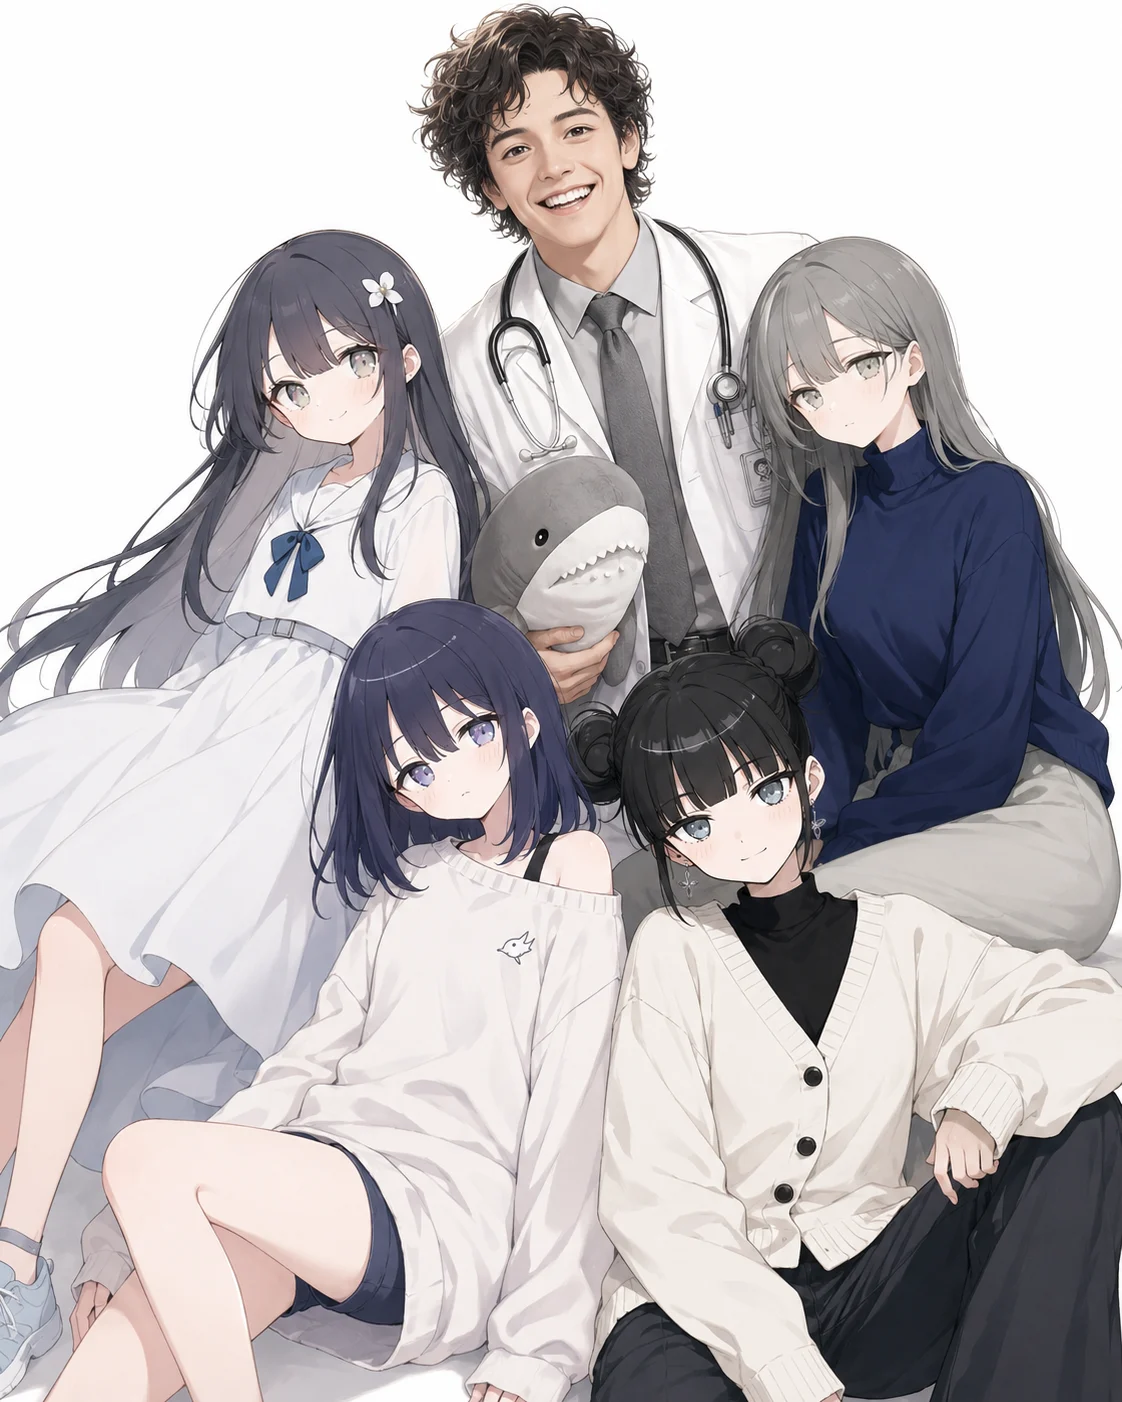
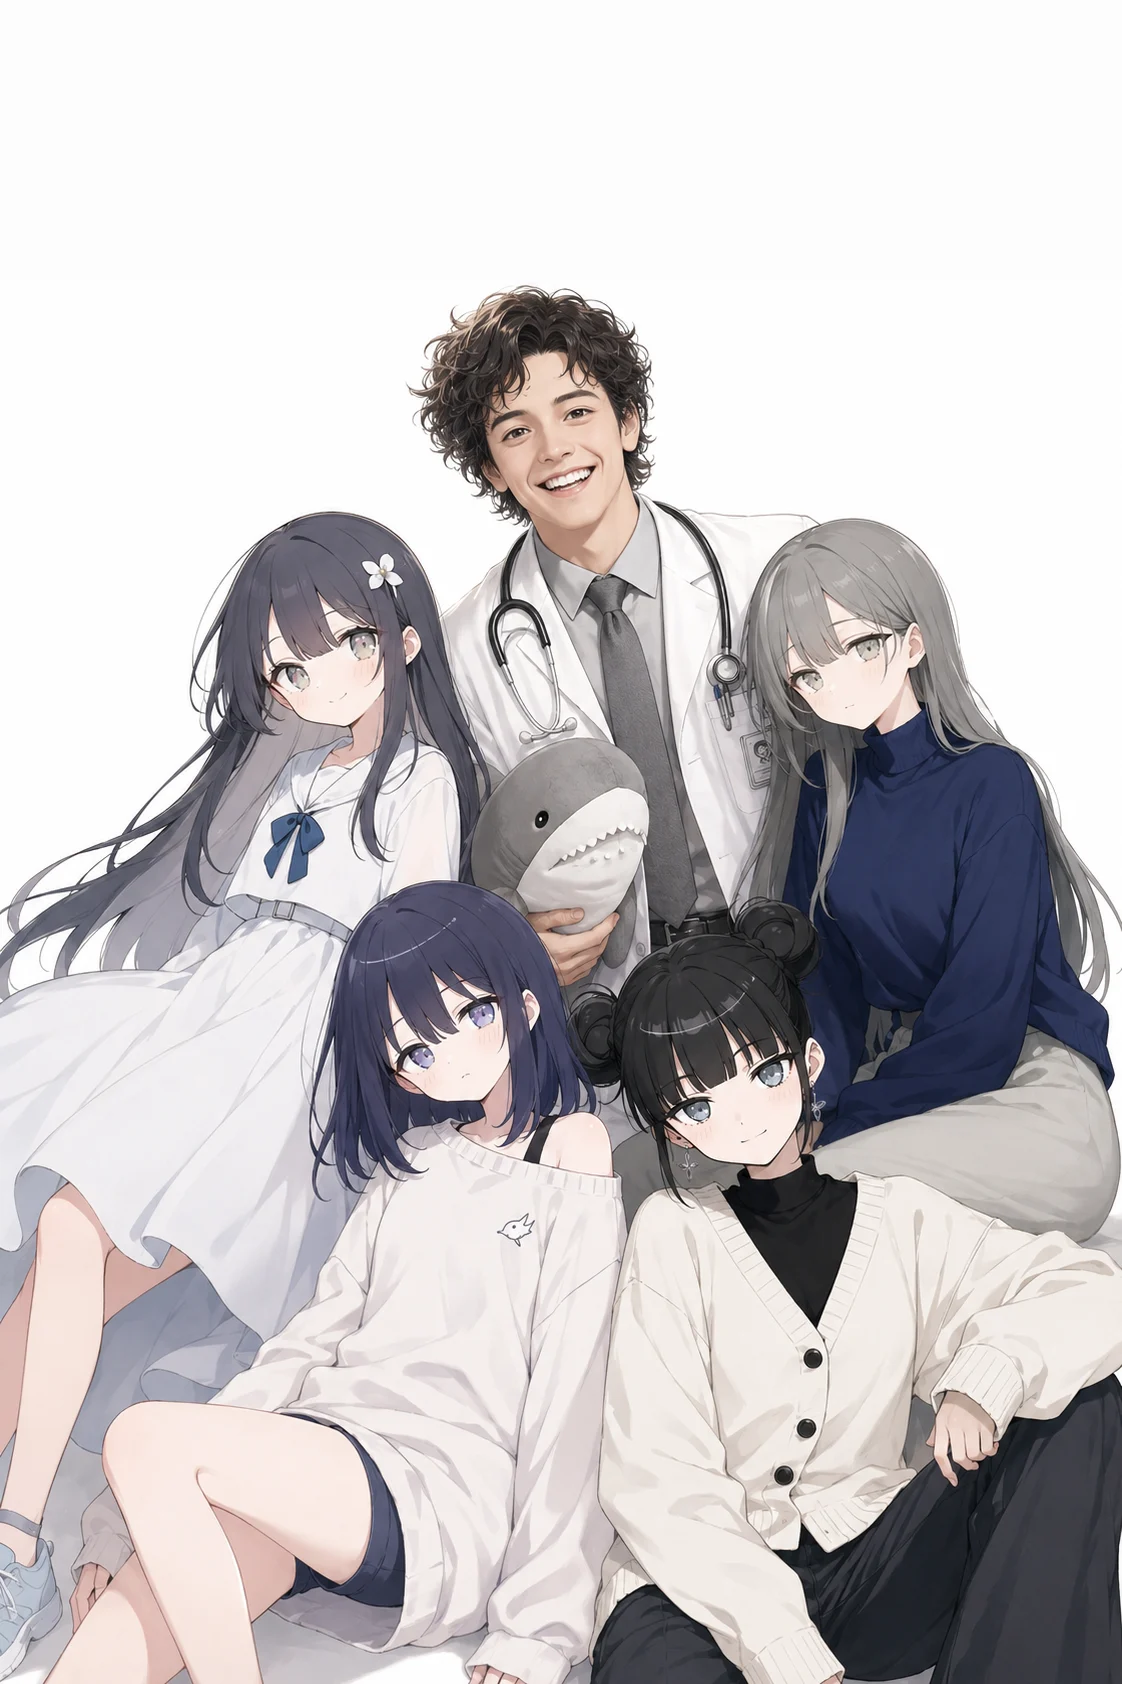
表紙の情報量を上げ、顔にかかっていたモヤを取る
■ 余白がさみしい → 空いた場所に実データを流す（仕様書4章の70/30へ寄せる）
- 左: NOW MAKING 2件（nowmaking コレクション）
- 右: 今月の制作物 3件（news コレクション・日付つき・全部リンク）
- 下: 特集3本 / 全部無料 / 次号 VOL.02 準備中
- 背の低い画面(<=850px)では詰めて一画面を守る。1280x720 の119px溢れを解消

■ 顔にモヤ → 全面スクリムをやめる
- スクリムは 88% 以下だけに縮小。それまで74%から立ち上げていて、
  前列2人の顔(実測72-88%)を白ませていた
- 見出しの可読性は白帯(--mag-plate)で取る。幅は誌面の38-52%で顔にかからない

■ その他
- テーマの改行位置をデータ側で決められるように（「やりたいこと、/ 全部やる」）
- メインビジュアルの上に282pxの余白を足し、医者の顔を誌名(7.7-17.5%)の下へ。
  髪の先端が 1.0% -> 20.0% に移動。左右の切り落としはゼロになった

実測(1920/1614/1280): 一画面で完結・横スクロールなし

diff --git a/src/content.config.ts b/src/content.config.ts
@@ -65,6 +65,7 @@ const issues = defineCollection({
   schema: z.object({
     vol: z.string(),
     label: z.string(),
+    /** 号のテーマ。**改行を入れるとその位置で折れる**（YAMLの |- で書く） */
     theme: z.string(),
     published: z.coerce.date(),
     mainVisual: publicPath,

diff --git a/CLAUDE.md b/CLAUDE.md
@@ -166,6 +166,13 @@ ogImage:      # 任意。無ければ thumbnail が使われる
 >
 > 一冊の上にサイト名を刷ると**中途半端に本っぽいだけ**になる（2026-08-27 実際にそうなった）。
 
+> [!WARNING] 全面スクリムを広げない
+> 一時、下から74%まで白いグラデを乗せていて、**被写体の顔にモヤがかかった**
+> （2026-08-27・本人「二人の顔がもうもやはいってる！！もったいない！」）。
+> スクリムは **88%以下だけ**。見出しの可読性は全面を白ませるのではなく、
+> **見出し自身の白帯（`.mag__lines li` の `--mag-plate`）**で取る。
+> 白帯は文字の幅ぶんしか出ないので、顔を隠さない（実測：幅は誌面の38〜52%）。
+
 「本らしさ」を作っているのは次の4つ。**減らすと途端に画像に戻る。**
 
 1. **誌名がサイト名と別**（上の表）

diff --git a/src/content/issues/vol01.md b/src/content/issues/vol01.md
@@ -1,12 +1,14 @@
 ---
 vol: VOL.01
 label: 創刊号
-theme: やりたいこと、全部やる
+theme: |-
+  やりたいこと、
+  全部やる
 published: 2026-09-01
 current: true
 mainVisual: /images/cover/2026-09-main.webp
 mainVisualAlt: 白衣の男性とサメのぬいぐるみを囲む4人の少女たちの集合写真
-mainVisualFocus: 50% 50%
+mainVisualFocus: 50% 0%
 coverInk: dark
 magTitleJp: 月刊
 magTitleEn: OGYANUN
